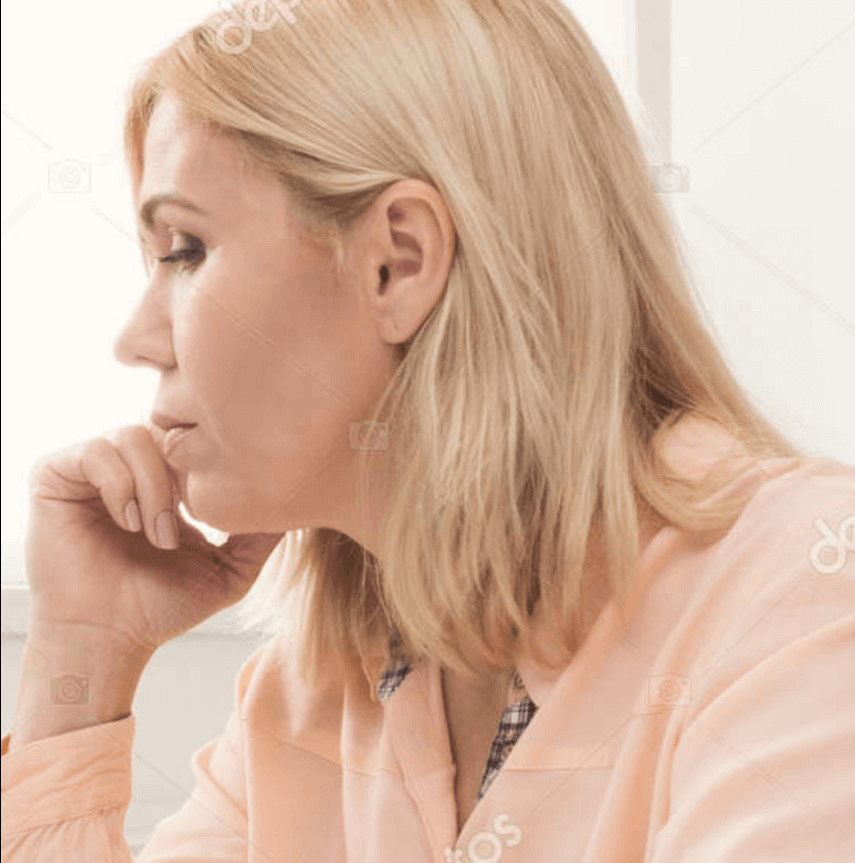
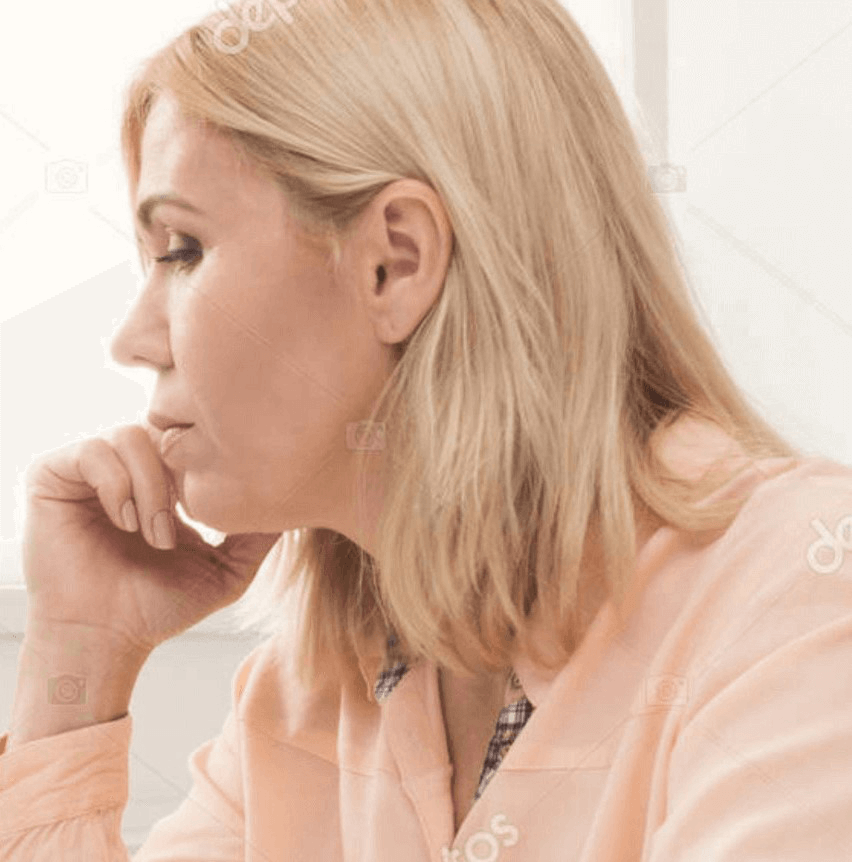
добавлены некоторые отсутствующие стили css

diff --git a/src/components/Icons/Icons.tsx b/src/components/Icons/Icons.tsx
@@ -7,14 +7,18 @@ import { IconsProps } from './Icons.model'
 const Icons: React.FC<IconsProps> = ({ IconsData, CenterImage }) => {
   return (
     <IconsList>
-      <CenterImageWrap>
-        <StyledImage
-          layout="responsive"
-          width={315}
-          height={315}
-          src={CenterImage}
-        />
-      </CenterImageWrap>
+      <Center>
+        <CenterImageWrap>
+          <StyledImage
+            layout="responsive"
+            width={315}
+            height={315}
+            src={CenterImage}
+          />
+        </CenterImageWrap>
+
+        <ImageTitle>Взрослый</ImageTitle>
+      </Center>
       {IconsData.map((icon, index) => (
         <Icon
           positionNumber={icon.positionNumber}
@@ -29,13 +33,31 @@ const Icons: React.FC<IconsProps> = ({ IconsData, CenterImage }) => {
   )
 }
 
+const ImageTitle = styled.p`
+  font-size: 2em;
+  bottom: 30px;
+  position: absolute;
+  color: #068ca6;
+  font-weight: 700;
+`
+
 const StyledImage = styled(Image)`
   object-fit: cover;
+  opacity: 0.4;
   border-radius: 50%;
 `
 
 const CenterImageWrap = styled.div`
   width: 315px;
+  background-color: white;
+  border-radius: 50%;
+`
+
+const Center = styled.div`
+  display: flex;
+  align-items: flex-end;
+  justify-content: center;
+  position: relative;
 `
 
 const IconsList = styled.ul`
@@ -53,6 +75,7 @@ const IconsList = styled.ul`
     }
     height: 550px;
     width: 550px;
+    font-size: 12px;
   }
 
   @media only screen and (max-width: ${devices.md}) {
@@ -61,6 +84,7 @@ const IconsList = styled.ul`
     }
     height: 470px;
     width: 470px;
+    font-size: 10px;
   }
 
   @media only screen and (max-width: ${devices.sm}) {
@@ -69,6 +93,7 @@ const IconsList = styled.ul`
     }
     height: 400px;
     width: 400px;
+    font-size: 8px;
   }
 `
 

diff --git a/src/components/PatientCard/DescriptionItem/DescriptionItem.tsx b/src/components/PatientCard/DescriptionItem/DescriptionItem.tsx
@@ -12,12 +12,14 @@ const DescriptionItem: React.FC<DescriptionItemProps> = ({ description }) => {
 const Description = styled.p``
 
 const Container = styled.li`
-  border: 2px solid #068ca6;
   padding: 1em;
   background: white;
   color: #223867;
-  border-radius: 10px;
   font-size: 1.3em;
+  background: rgba(255, 255, 255, 0.7);
+  border: 2px solid #068ca6;
+  box-shadow: 0px 4px 4px rgba(6, 140, 166, 0.31);
+  border-radius: 10px;
 `
 
 export default DescriptionItem

diff --git a/src/components/Icons/Icon/Icon.tsx b/src/components/Icons/Icon/Icon.tsx
@@ -80,6 +80,7 @@ const Badge = styled.div`
   bottom: 50px;
   right: 50px;
   width: 95px;
+  filter: drop-shadow(0px 4px 25px rgba(0, 0, 0, 0.25));
 `
 
 const HealthImage = styled(Image)<{ index: number }>``
